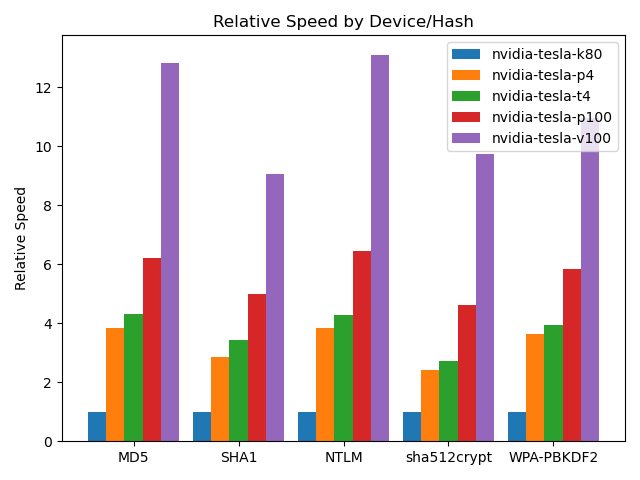
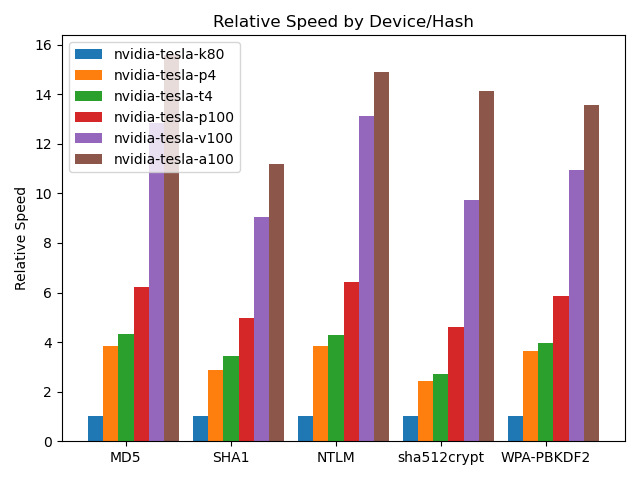
Update thundercrack analysis

diff --git a/cloud/thundercrack/benchmarks/speeds.html b/cloud/thundercrack/benchmarks/speeds.html
@@ -1,28 +1,28 @@
-<table><thead><tr><th>Algorithm</th><th colspan="2">nvidia-tesla-k80</th><th colspan="2">nvidia-tesla-p4</th><th colspan="2">nvidia-tesla-t4</th><th colspan="2">nvidia-tesla-p100</th><th colspan="2">nvidia-tesla-v100</th></tr></thead>
+<table><thead><tr><th>Algorithm</th><th colspan="2">nvidia-tesla-k80</th><th colspan="2">nvidia-tesla-p4</th><th colspan="2">nvidia-tesla-t4</th><th colspan="2">nvidia-tesla-p100</th><th colspan="2">nvidia-tesla-v100</th><th colspan="2">nvidia-tesla-a100</th></tr></thead>
 <tbody>
-<tr><td>0 - MD5</td><td>4.3 GH/s</td><td>100.0%</td><td>16.6 GH/s</td><td>382.4%</td><td>18.8 GH/s</td><td>432.9%</td><td>27.1 GH/s</td><td>622.2%</td><td>55.8 GH/s</td><td>1283.7%</td></tr>
-<tr><td>100 - SHA1</td><td>1.9 GH/s</td><td>100.0%</td><td>5.6 GH/s</td><td>286.6%</td><td>6.6 GH/s</td><td>342.8%</td><td>9.7 GH/s</td><td>497.9%</td><td>17.5 GH/s</td><td>905.4%</td></tr>
-<tr><td>1400 - SHA2-256</td><td>845.7 MH/s</td><td>100.0%</td><td>2.0 GH/s</td><td>238.6%</td><td>2.8 GH/s</td><td>334.8%</td><td>3.3 GH/s</td><td>389.5%</td><td>7.7 GH/s</td><td>904.8%</td></tr>
-<tr><td>1700 - SHA2-512</td><td>230.3 MH/s</td><td>100.0%</td><td>672.5 MH/s</td><td>292.0%</td><td>789.9 MH/s</td><td>343.0%</td><td>1.1 GH/s</td><td>463.0%</td><td>2.4 GH/s</td><td>1039.9%</td></tr>
-<tr><td>22000 - WPA-PBKDF2-PMKID+EAPOL (Iterations: 4095)</td><td>80.7 kH/s</td><td>100.0%</td><td>292.9 kH/s</td><td>363.0%</td><td>318.3 kH/s</td><td>394.5%</td><td>471.4 kH/s</td><td>584.2%</td><td>883.5 kH/s</td><td>1094.9%</td></tr>
-<tr><td>1000 - NTLM</td><td>7.8 GH/s</td><td>100.0%</td><td>29.9 GH/s</td><td>385.2%</td><td>33.3 GH/s</td><td>429.7%</td><td>49.9 GH/s</td><td>643.7%</td><td>101.6 GH/s</td><td>1310.6%</td></tr>
-<tr><td>3000 - LM</td><td>3.8 GH/s</td><td>100.0%</td><td>13.1 GH/s</td><td>347.8%</td><td>19.4 GH/s</td><td>514.2%</td><td>25.0 GH/s</td><td>661.9%</td><td>41.5 GH/s</td><td>1098.4%</td></tr>
-<tr><td>5500 - NetNTLMv1 / NetNTLMv1+ESS</td><td>5.0 GH/s</td><td>100.0%</td><td>16.1 GH/s</td><td>322.6%</td><td>19.7 GH/s</td><td>395.6%</td><td>26.6 GH/s</td><td>533.0%</td><td>54.9 GH/s</td><td>1100.9%</td></tr>
-<tr><td>5600 - NetNTLMv2</td><td>322.1 MH/s</td><td>100.0%</td><td>1.1 GH/s</td><td>349.9%</td><td>1.4 GH/s</td><td>439.4%</td><td>1.8 GH/s</td><td>567.5%</td><td>3.8 GH/s</td><td>1179.7%</td></tr>
-<tr><td>1500 - descrypt, DES (Unix), Traditional DES</td><td>161.7 MH/s</td><td>100.0%</td><td>515.3 MH/s</td><td>318.7%</td><td>815.9 MH/s</td><td>504.6%</td><td>1.1 GH/s</td><td>681.5%</td><td>1.7 GH/s</td><td>1033.9%</td></tr>
-<tr><td>500 - md5crypt, MD5 (Unix), Cisco-IOS $1$ (MD5) (Iterations: 1000)</td><td>2.5 MH/s</td><td>100.0%</td><td>6.3 MH/s</td><td>251.1%</td><td>8.7 MH/s</td><td>347.6%</td><td>10.4 MH/s</td><td>416.4%</td><td>24.7 MH/s</td><td>989.4%</td></tr>
-<tr><td>3200 - bcrypt $2*$, Blowfish (Unix) (Iterations: 32)</td><td>2.5 kH/s</td><td>100.0%</td><td>13.4 kH/s</td><td>540.7%</td><td>26.7 kH/s</td><td>1073.8%</td><td>22.9 kH/s</td><td>922.9%</td><td>78.4 kH/s</td><td>3155.9%</td></tr>
-<tr><td>1800 - sha512crypt $6$, SHA512 (Unix) (Iterations: 5000)</td><td>37.9 kH/s</td><td>100.0%</td><td>91.6 kH/s</td><td>241.8%</td><td>103.5 kH/s</td><td>273.0%</td><td>174.6 kH/s</td><td>460.6%</td><td>369.6 kH/s</td><td>975.0%</td></tr>
-<tr><td>7500 - Kerberos 5, etype 23, AS-REQ Pre-Auth</td><td>43.1 MH/s</td><td>100.0%</td><td>186.7 MH/s</td><td>432.7%</td><td>295.0 MH/s</td><td>683.8%</td><td>383.9 MH/s</td><td>889.8%</td><td>1.0 GH/s</td><td>2427.2%</td></tr>
-<tr><td>13100 - Kerberos 5, etype 23, TGS-REP</td><td>32.3 MH/s</td><td>100.0%</td><td>185.3 MH/s</td><td>573.9%</td><td>291.7 MH/s</td><td>903.4%</td><td>348.8 MH/s</td><td>1080.2%</td><td>1.0 GH/s</td><td>3123.0%</td></tr>
-<tr><td>15300 - DPAPI masterkey file v1 (Iterations: 23999)</td><td>15.6 kH/s</td><td>100.0%</td><td>50.2 kH/s</td><td>322.3%</td><td>55.6 kH/s</td><td>356.7%</td><td>80.8 kH/s</td><td>519.0%</td><td>150.9 kH/s</td><td>968.9%</td></tr>
-<tr><td>15900 - DPAPI masterkey file v2 (Iterations: 12899)</td><td>8.1 kH/s</td><td>100.0%</td><td>22.1 kH/s</td><td>271.9%</td><td>31.3 kH/s</td><td>385.0%</td><td>36.7 kH/s</td><td>451.0%</td><td>79.9 kH/s</td><td>981.4%</td></tr>
-<tr><td>7100 - macOS v10.8+ (PBKDF2-SHA512) (Iterations: 1023)</td><td>104.1 kH/s</td><td>100.0%</td><td>272.5 kH/s</td><td>261.8%</td><td>392.5 kH/s</td><td>377.0%</td><td>442.6 kH/s</td><td>425.2%</td><td>994.6 kH/s</td><td>955.4%</td></tr>
-<tr><td>11600 - 7-Zip (Iterations: 16384)</td><td>91.9 kH/s</td><td>100.0%</td><td>217.0 kH/s</td><td>236.0%</td><td>266.6 kH/s</td><td>290.0%</td><td>380.5 kH/s</td><td>413.8%</td><td>757.8 kH/s</td><td>824.2%</td></tr>
-<tr><td>12500 - RAR3-hp (Iterations: 262144)</td><td>12.1 kH/s</td><td>100.0%</td><td>20.3 kH/s</td><td>167.6%</td><td>28.1 kH/s</td><td>231.7%</td><td>64.2 kH/s</td><td>528.8%</td><td>102.2 kH/s</td><td>842.3%</td></tr>
-<tr><td>13000 - RAR5 (Iterations: 32799)</td><td>10.2 kH/s</td><td>100.0%</td><td>24.5 kH/s</td><td>240.6%</td><td>30.2 kH/s</td><td>297.0%</td><td>39.6 kH/s</td><td>389.3%</td><td>93.2 kH/s</td><td>916.6%</td></tr>
-<tr><td>6211 - TrueCrypt RIPEMD160 + XTS 512 bit (Iterations: 1999)</td><td>66.8 kH/s</td><td>100.0%</td><td>177.3 kH/s</td><td>265.3%</td><td>232.1 kH/s</td><td>347.3%</td><td>292.4 kH/s</td><td>437.6%</td><td>669.9 kH/s</td><td>1002.5%</td></tr>
-<tr><td>13400 - KeePass 1 (AES/Twofish) and KeePass 2 (AES) (Iterations: 24569)</td><td>10.9 kH/s</td><td>100.0%</td><td>19.0 kH/s</td><td>174.8%</td><td>27.3 kH/s</td><td>251.2%</td><td>67.0 kH/s</td><td>617.1%</td><td>111.2 kH/s</td><td>1024.8%</td></tr>
-<tr><td>6800 - LastPass + LastPass sniffed (Iterations: 499)</td><td>651.9 kH/s</td><td>100.0%</td><td>1.5 MH/s</td><td>232.2%</td><td>2.0 MH/s</td><td>304.7%</td><td>2.5 MH/s</td><td>390.4%</td><td>6.0 MH/s</td><td>914.8%</td></tr>
-<tr><td>11300 - Bitcoin/Litecoin wallet.dat (Iterations: 200459)</td><td>1.3 kH/s</td><td>100.0%</td><td>3.1 kH/s</td><td>241.5%</td><td>4.1 kH/s</td><td>325.3%</td><td>5.0 kH/s</td><td>389.9%</td><td>11.4 kH/s</td><td>892.3%</td></tr>
+<tr><td>0 - MD5</td><td>4.3 GH/s</td><td>100.0%</td><td>16.6 GH/s</td><td>382.4%</td><td>18.8 GH/s</td><td>432.9%</td><td>27.1 GH/s</td><td>622.2%</td><td>55.8 GH/s</td><td>1283.7%</td><td>67.8 GH/s</td><td>1559.2%</td></tr>
+<tr><td>100 - SHA1</td><td>1.9 GH/s</td><td>100.0%</td><td>5.6 GH/s</td><td>286.6%</td><td>6.6 GH/s</td><td>342.8%</td><td>9.7 GH/s</td><td>497.9%</td><td>17.5 GH/s</td><td>905.4%</td><td>21.7 GH/s</td><td>1119.1%</td></tr>
+<tr><td>1400 - SHA2-256</td><td>845.7 MH/s</td><td>100.0%</td><td>2.0 GH/s</td><td>238.6%</td><td>2.8 GH/s</td><td>334.8%</td><td>3.3 GH/s</td><td>389.5%</td><td>7.7 GH/s</td><td>904.8%</td><td>9.4 GH/s</td><td>1116.7%</td></tr>
+<tr><td>1700 - SHA2-512</td><td>230.3 MH/s</td><td>100.0%</td><td>672.5 MH/s</td><td>292.0%</td><td>789.9 MH/s</td><td>343.0%</td><td>1.1 GH/s</td><td>463.0%</td><td>2.4 GH/s</td><td>1039.9%</td><td>3.1 GH/s</td><td>1353.0%</td></tr>
+<tr><td>22000 - WPA-PBKDF2-PMKID+EAPOL (Iterations: 4095)</td><td>80.7 kH/s</td><td>100.0%</td><td>292.9 kH/s</td><td>363.0%</td><td>318.3 kH/s</td><td>394.5%</td><td>471.4 kH/s</td><td>584.2%</td><td>883.5 kH/s</td><td>1094.9%</td><td>1.1 MH/s</td><td>1354.3%</td></tr>
+<tr><td>1000 - NTLM</td><td>7.8 GH/s</td><td>100.0%</td><td>29.9 GH/s</td><td>385.2%</td><td>33.3 GH/s</td><td>429.7%</td><td>49.9 GH/s</td><td>643.7%</td><td>101.6 GH/s</td><td>1310.6%</td><td>115.3 GH/s</td><td>1487.3%</td></tr>
+<tr><td>3000 - LM</td><td>3.8 GH/s</td><td>100.0%</td><td>13.1 GH/s</td><td>347.8%</td><td>19.4 GH/s</td><td>514.2%</td><td>25.0 GH/s</td><td>661.9%</td><td>41.5 GH/s</td><td>1098.4%</td><td>65.1 GH/s</td><td>1722.0%</td></tr>
+<tr><td>5500 - NetNTLMv1 / NetNTLMv1+ESS</td><td>5.0 GH/s</td><td>100.0%</td><td>16.1 GH/s</td><td>322.6%</td><td>19.7 GH/s</td><td>395.6%</td><td>26.6 GH/s</td><td>533.0%</td><td>54.9 GH/s</td><td>1100.9%</td><td>70.6 GH/s</td><td>1415.7%</td></tr>
+<tr><td>5600 - NetNTLMv2</td><td>322.1 MH/s</td><td>100.0%</td><td>1.1 GH/s</td><td>349.9%</td><td>1.4 GH/s</td><td>439.4%</td><td>1.8 GH/s</td><td>567.5%</td><td>3.8 GH/s</td><td>1179.7%</td><td>5.0 GH/s</td><td>1538.1%</td></tr>
+<tr><td>1500 - descrypt, DES (Unix), Traditional DES</td><td>161.7 MH/s</td><td>100.0%</td><td>515.3 MH/s</td><td>318.7%</td><td>815.9 MH/s</td><td>504.6%</td><td>1.1 GH/s</td><td>681.5%</td><td>1.7 GH/s</td><td>1033.9%</td><td>2.6 GH/s</td><td>1606.8%</td></tr>
+<tr><td>500 - md5crypt, MD5 (Unix), Cisco-IOS $1$ (MD5) (Iterations: 1000)</td><td>2.5 MH/s</td><td>100.0%</td><td>6.3 MH/s</td><td>251.1%</td><td>8.7 MH/s</td><td>347.6%</td><td>10.4 MH/s</td><td>416.4%</td><td>24.7 MH/s</td><td>989.4%</td><td>31.5 MH/s</td><td>1260.6%</td></tr>
+<tr><td>3200 - bcrypt $2*$, Blowfish (Unix) (Iterations: 32)</td><td>2.5 kH/s</td><td>100.0%</td><td>13.4 kH/s</td><td>540.7%</td><td>26.7 kH/s</td><td>1073.8%</td><td>22.9 kH/s</td><td>922.9%</td><td>78.4 kH/s</td><td>3155.9%</td><td>135.4 kH/s</td><td>5450.9%</td></tr>
+<tr><td>1800 - sha512crypt $6$, SHA512 (Unix) (Iterations: 5000)</td><td>37.9 kH/s</td><td>100.0%</td><td>91.6 kH/s</td><td>241.8%</td><td>103.5 kH/s</td><td>273.0%</td><td>174.6 kH/s</td><td>460.6%</td><td>369.6 kH/s</td><td>975.0%</td><td>535.4 kH/s</td><td>1412.4%</td></tr>
+<tr><td>7500 - Kerberos 5, etype 23, AS-REQ Pre-Auth</td><td>43.1 MH/s</td><td>100.0%</td><td>186.7 MH/s</td><td>432.7%</td><td>295.0 MH/s</td><td>683.8%</td><td>383.9 MH/s</td><td>889.8%</td><td>1.0 GH/s</td><td>2427.2%</td><td>1.8 GH/s</td><td>4281.9%</td></tr>
+<tr><td>13100 - Kerberos 5, etype 23, TGS-REP</td><td>32.3 MH/s</td><td>100.0%</td><td>185.3 MH/s</td><td>573.9%</td><td>291.7 MH/s</td><td>903.4%</td><td>348.8 MH/s</td><td>1080.2%</td><td>1.0 GH/s</td><td>3123.0%</td><td>1.8 GH/s</td><td>5563.8%</td></tr>
+<tr><td>15300 - DPAPI masterkey file v1 (Iterations: 23999)</td><td>15.6 kH/s</td><td>100.0%</td><td>50.2 kH/s</td><td>322.3%</td><td>55.6 kH/s</td><td>356.7%</td><td>80.8 kH/s</td><td>519.0%</td><td>150.9 kH/s</td><td>968.9%</td><td>187.2 kH/s</td><td>1202.0%</td></tr>
+<tr><td>15900 - DPAPI masterkey file v2 (Iterations: 12899)</td><td>8.1 kH/s</td><td>100.0%</td><td>22.1 kH/s</td><td>271.9%</td><td>31.3 kH/s</td><td>385.0%</td><td>36.7 kH/s</td><td>451.0%</td><td>79.9 kH/s</td><td>981.4%</td><td>109.2 kH/s</td><td>1341.5%</td></tr>
+<tr><td>7100 - macOS v10.8+ (PBKDF2-SHA512) (Iterations: 1023)</td><td>104.1 kH/s</td><td>100.0%</td><td>272.5 kH/s</td><td>261.8%</td><td>392.5 kH/s</td><td>377.0%</td><td>442.6 kH/s</td><td>425.2%</td><td>994.6 kH/s</td><td>955.4%</td><td>1.4 MH/s</td><td>1304.0%</td></tr>
+<tr><td>11600 - 7-Zip (Iterations: 16384)</td><td>91.9 kH/s</td><td>100.0%</td><td>217.0 kH/s</td><td>236.0%</td><td>266.6 kH/s</td><td>290.0%</td><td>380.5 kH/s</td><td>413.8%</td><td>757.8 kH/s</td><td>824.2%</td><td>1.1 MH/s</td><td>1218.6%</td></tr>
+<tr><td>12500 - RAR3-hp (Iterations: 262144)</td><td>12.1 kH/s</td><td>100.0%</td><td>20.3 kH/s</td><td>167.6%</td><td>28.1 kH/s</td><td>231.7%</td><td>64.2 kH/s</td><td>528.8%</td><td>102.2 kH/s</td><td>842.3%</td><td>155.4 kH/s</td><td>1280.8%</td></tr>
+<tr><td>13000 - RAR5 (Iterations: 32799)</td><td>10.2 kH/s</td><td>100.0%</td><td>24.5 kH/s</td><td>240.6%</td><td>30.2 kH/s</td><td>297.0%</td><td>39.6 kH/s</td><td>389.3%</td><td>93.2 kH/s</td><td>916.6%</td><td>118.7 kH/s</td><td>1167.8%</td></tr>
+<tr><td>6211 - TrueCrypt RIPEMD160 + XTS 512 bit (Iterations: 1999)</td><td>66.8 kH/s</td><td>100.0%</td><td>177.3 kH/s</td><td>265.3%</td><td>232.1 kH/s</td><td>347.3%</td><td>292.4 kH/s</td><td>437.6%</td><td>669.9 kH/s</td><td>1002.5%</td><td>822.4 kH/s</td><td>1230.8%</td></tr>
+<tr><td>13400 - KeePass 1 (AES/Twofish) and KeePass 2 (AES) (Iterations: 24569)</td><td>10.9 kH/s</td><td>100.0%</td><td>19.0 kH/s</td><td>174.8%</td><td>27.3 kH/s</td><td>251.2%</td><td>67.0 kH/s</td><td>617.1%</td><td>111.2 kH/s</td><td>1024.8%</td><td>139.0 kH/s</td><td>1281.0%</td></tr>
+<tr><td>6800 - LastPass + LastPass sniffed (Iterations: 499)</td><td>651.9 kH/s</td><td>100.0%</td><td>1.5 MH/s</td><td>232.2%</td><td>2.0 MH/s</td><td>304.7%</td><td>2.5 MH/s</td><td>390.4%</td><td>6.0 MH/s</td><td>914.8%</td><td>7.6 MH/s</td><td>1160.0%</td></tr>
+<tr><td>11300 - Bitcoin/Litecoin wallet.dat (Iterations: 200459)</td><td>1.3 kH/s</td><td>100.0%</td><td>3.1 kH/s</td><td>241.5%</td><td>4.1 kH/s</td><td>325.3%</td><td>5.0 kH/s</td><td>389.9%</td><td>11.4 kH/s</td><td>892.3%</td><td>14.4 kH/s</td><td>1129.2%</td></tr>
 </tbody></table>

diff --git a/cloud/thundercrack/benchmarks/values.html b/cloud/thundercrack/benchmarks/values.html
@@ -5,4 +5,5 @@
 <tr><td>nvidia-tesla-t4</td><td>423.2</td><td>$0.35</td><td>5.44</td></tr>
 <tr><td>nvidia-tesla-p100</td><td>559.1</td><td>$1.46</td><td>1.72</td></tr>
 <tr><td>nvidia-tesla-v100</td><td>1237.8</td><td>$2.48</td><td>2.25</td></tr>
+<tr><td>nvidia-tesla-a100</td><td>1782.3</td><td>$2.93</td><td>2.74</td></tr>
 </tbody></table>

diff --git a/cloud/thundercrack/benchmarks/analysis.py b/cloud/thundercrack/benchmarks/analysis.py
@@ -100,8 +100,8 @@ def do_graph(results):
             1800: 'sha512crypt',
             22000: 'WPA-PBKDF2',
     }
-    width = 0.35
     group_size = 2
+    width = (group_size-0.25)/len(DEVICES)
     ind = np.arange(1, len(graph_modes)*group_size, group_size)
     plt.clf()
     fig, ax = plt.subplots()
@@ -132,8 +132,8 @@ def do_value_graph(results):
             1800: 'sha512crypt',
             22000: 'WPA-PBKDF2',
     }
-    width = 0.35
     group_size = 2
+    width = (group_size-0.25)/len(DEVICES)
     ind = np.arange(1, len(graph_modes)*group_size, group_size)
     plt.clf()
     fig, ax = plt.subplots()
